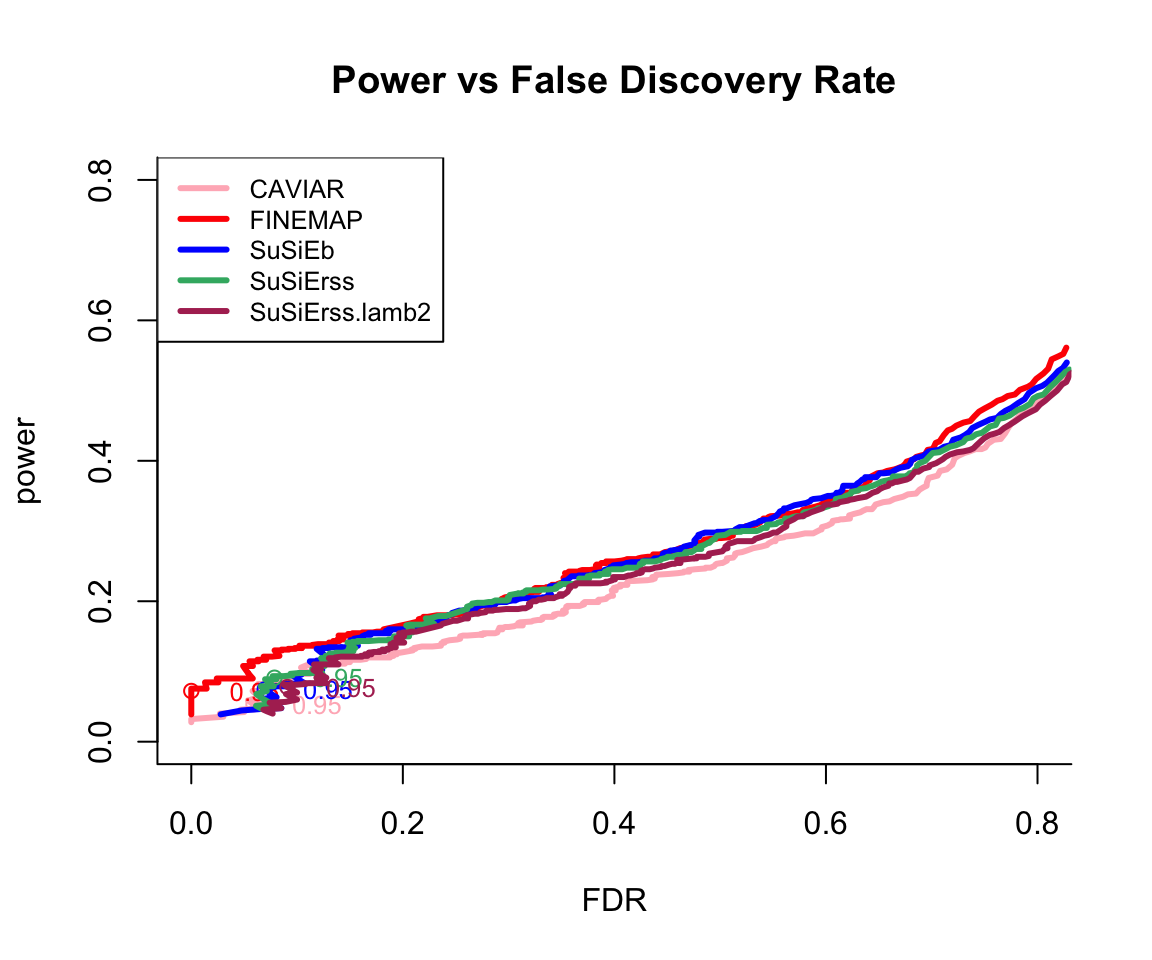
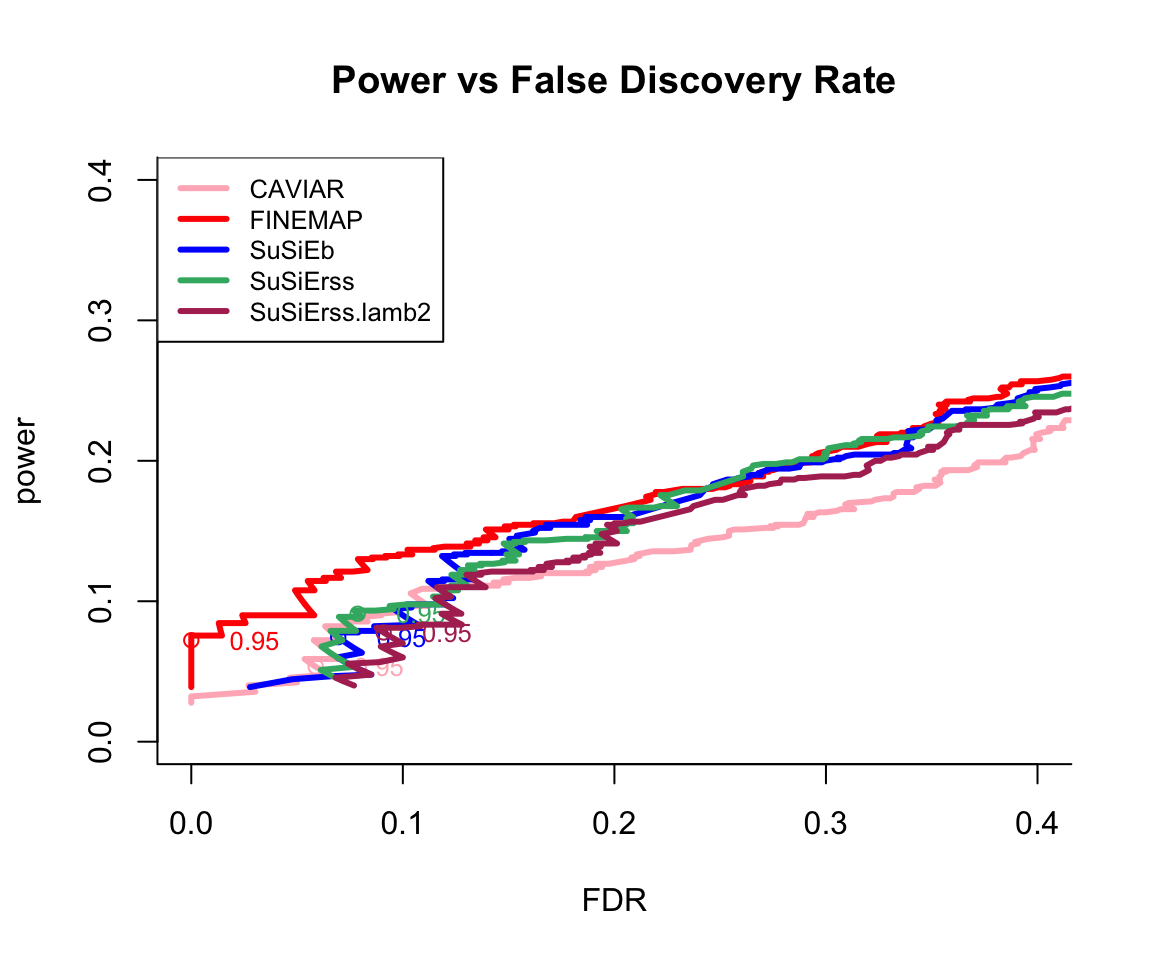
Build site.

diff --git a/docs/r_compare_add_z_lambda_caviar_ROC.html b/docs/r_compare_add_z_lambda_caviar_ROC.html
@@ -456,7 +456,7 @@ div.section {
 <div class="tab-content">
 <div id="summary" class="tab-pane fade in active">
 <p>
-<strong>Last updated:</strong> 2019-05-08
+<strong>Last updated:</strong> 2019-05-09
 </p>
 <p>
 <strong>Checks:</strong> <span class="glyphicon glyphicon-ok text-success" aria-hidden="true"></span> 6 <span class="glyphicon glyphicon-exclamation-sign text-danger" aria-hidden="true"></span> 0
@@ -535,10 +535,10 @@ This reproducible <a href="http://rmarkdown.rstudio.com">R Markdown</a> analysis
 <div class="panel panel-default">
 <div class="panel-heading">
 <p class="panel-title">
-<a data-toggle="collapse" data-parent="#workflowr-checks" href="#strongRepositoryversionstrongahrefhttpsgithubcomzouyuxindscsusieztreecdeda85c299e0dd69cccef34a1c07cee36b11900targetblankcdeda85a"> <span class="glyphicon glyphicon-ok text-success" aria-hidden="true"></span> <strong>Repository version:</strong> <a href="https://github.com/zouyuxin/dsc-susie-z/tree/cdeda85c299e0dd69cccef34a1c07cee36b11900" target="_blank">cdeda85</a> </a>
+<a data-toggle="collapse" data-parent="#workflowr-checks" href="#strongRepositoryversionstrongahrefhttpsgithubcomzouyuxindscsusieztreeb59018cf3daa60404ecb82934d639f627381e999targetblankb59018ca"> <span class="glyphicon glyphicon-ok text-success" aria-hidden="true"></span> <strong>Repository version:</strong> <a href="https://github.com/zouyuxin/dsc-susie-z/tree/b59018cf3daa60404ecb82934d639f627381e999" target="_blank">b59018c</a> </a>
 </p>
 </div>
[2 lines of base64/hex data omitted]
 <div class="panel-body">
 <p>
 Great! You are using Git for version control. Tracking code development and connecting the code version to the results is critical for reproducibility. The version displayed above was the version of the Git repository at the time these results were generated. <br><br> Note that you need to be careful to ensure that all relevant files for the analysis have been committed to Git prior to generating the results (you can use <code>wflow_publish</code> or <code>wflow_git_commit</code>). workflowr only checks the R Markdown file, but you know if there are other scripts or data files that it depends on. Below is the status of the Git repository when the results were generated:
@@ -661,6 +661,40 @@ Message
 </tr>
 </thead>
 <tbody>
+<tr>
+<td>
+Rmd
+</td>
+<td>
+<a href="https://github.com/zouyuxin/dsc-susie-z/blob/b59018cf3daa60404ecb82934d639f627381e999/analysis/r_compare_add_z_lambda_caviar_ROC.Rmd" target="_blank">b59018c</a>
+</td>
+<td>
+zouyuxin
+</td>
+<td>
+2019-05-09
+</td>
+<td>
+wflow_publish(“analysis/r_compare_add_z_lambda_caviar_ROC.Rmd”)
+</td>
+</tr>
+<tr>
+<td>
+html
+</td>
+<td>
+<a href="https://rawcdn.githack.com/zouyuxin/dsc-susie-z/d721e959abee480609c9a5bd3ebb392cf375b336/docs/r_compare_add_z_lambda_caviar_ROC.html" target="_blank">d721e95</a>
+</td>
+<td>
+zouyuxin
+</td>
+<td>
+2019-05-08
+</td>
+<td>
+Build site.
+</td>
+</tr>
 <tr>
 <td>
 Rmd
@@ -854,12 +888,12 @@ i = 1
 for (method in names(roc.notest)) {
   yy = make_smooth(1 - roc.notest[[method]]$rates$Precision, roc.notest[[method]]$rates$Recall)
   if (i == 1) {
-    plot(yy$x, yy$y, t=&quot;l&quot;, col=colors[i], ylab = &quot;power&quot;, xlab =&quot;FDR&quot;, main = &#39;Power vs False Discovery Rate&#39;, bty=&#39;l&#39;, lwd = 3, xlim = c(0,0.8), ylim = c(0,0.8))
+    plot(yy$x, yy$y, t=&quot;l&quot;, col=colors[i], ylab = &quot;power&quot;, xlab =&quot;FDR&quot;, main = &#39;Power vs False Discovery Rate&#39;, bty=&#39;l&#39;, lwd = 3, xlim = c(0,0.4), ylim = c(0,0.4))
   } else {
-    lines(yy$x, yy$y, col=colors[i], lwd = 3, xlim = c(0,0.8), ylim = c(0,0.8))
+    lines(yy$x, yy$y, col=colors[i], lwd = 3, xlim = c(0,0.4), ylim = c(0,0.4))
   }
   #add_text(dat[[method]]$rates$Threshold, yy$x, yy$y, 0.9, colors[i])
-  add_text(roc.notest[[method]]$rates$Threshold, yy$x, yy$y, 0.95, colors[i])
+  add_text(roc.notest[[method]]$rates$Threshold, yy$x, yy$y, 0.95, colors[i], delta=-0.03)
   labels[i] = method
   i = i + 1
 }
@@ -887,6 +921,17 @@ Date
 </tr>
 </thead>
 <tbody>
+<tr>
+<td>
+<a href="https://github.com/zouyuxin/dsc-susie-z/blob/d721e959abee480609c9a5bd3ebb392cf375b336/docs/figure/r_compare_add_z_lambda_caviar_ROC.Rmd/unnamed-chunk-5-1.png" target="_blank">d721e95</a>
+</td>
+<td>
+zouyuxin
+</td>
+<td>
+2019-05-08
+</td>
+</tr>
 <tr>
 <td>
 <a href="https://github.com/zouyuxin/dsc-susie-z/blob/ae19f4907c61032411c805670d5fc922e9edf259/docs/figure/r_compare_add_z_lambda_caviar_ROC.Rmd/unnamed-chunk-5-1.png" target="_blank">ae19f49</a>
@@ -964,6 +1009,17 @@ Date
 <tbody>
 <tr>
 <td>
+<a href="https://github.com/zouyuxin/dsc-susie-z/blob/d721e959abee480609c9a5bd3ebb392cf375b336/docs/figure/r_compare_add_z_lambda_caviar_ROC.Rmd/unnamed-chunk-6-1.png" target="_blank">d721e95</a>
+</td>
+<td>
+zouyuxin
+</td>
+<td>
+2019-05-08
+</td>
+</tr>
+<tr>
+<td>
 <a href="https://github.com/zouyuxin/dsc-susie-z/blob/ae19f4907c61032411c805670d5fc922e9edf259/docs/figure/r_compare_add_z_lambda_caviar_ROC.Rmd/unnamed-chunk-6-1.png" target="_blank">ae19f49</a>
 </td>
 <td>
@@ -1019,6 +1075,17 @@ Date
 </tr>
 </thead>
 <tbody>
+<tr>
+<td>
+<a href="https://github.com/zouyuxin/dsc-susie-z/blob/d721e959abee480609c9a5bd3ebb392cf375b336/docs/figure/r_compare_add_z_lambda_caviar_ROC.Rmd/unnamed-chunk-7-1.png" target="_blank">d721e95</a>
+</td>
+<td>
+zouyuxin
+</td>
+<td>
+2019-05-08
+</td>
+</tr>
 <tr>
 <td>
 <a href="https://github.com/zouyuxin/dsc-susie-z/blob/ae19f4907c61032411c805670d5fc922e9edf259/docs/figure/r_compare_add_z_lambda_caviar_ROC.Rmd/unnamed-chunk-7-1.png" target="_blank">ae19f49</a>
@@ -1087,6 +1154,17 @@ Date
 </tr>
 </thead>
 <tbody>
+<tr>
+<td>
+<a href="https://github.com/zouyuxin/dsc-susie-z/blob/d721e959abee480609c9a5bd3ebb392cf375b336/docs/figure/r_compare_add_z_lambda_caviar_ROC.Rmd/unnamed-chunk-9-1.png" target="_blank">d721e95</a>
+</td>
+<td>
+zouyuxin
+</td>
+<td>
+2019-05-08
+</td>
+</tr>
 <tr>
 <td>
 <a href="https://github.com/zouyuxin/dsc-susie-z/blob/57ecb8e655d3600ad8fe2f8217c84f3fc8052f58/docs/figure/r_compare_add_z_lambda_caviar_ROC.Rmd/unnamed-chunk-9-1.png" target="_blank">57ecb8e</a>
@@ -1193,6 +1271,17 @@ Date
 <tbody>
 <tr>
 <td>
+<a href="https://github.com/zouyuxin/dsc-susie-z/blob/d721e959abee480609c9a5bd3ebb392cf375b336/docs/figure/r_compare_add_z_lambda_caviar_ROC.Rmd/unnamed-chunk-10-1.png" target="_blank">d721e95</a>
+</td>
+<td>
+zouyuxin
+</td>
+<td>
+2019-05-08
+</td>
+</tr>
+<tr>
+<td>
 <a href="https://github.com/zouyuxin/dsc-susie-z/blob/57ecb8e655d3600ad8fe2f8217c84f3fc8052f58/docs/figure/r_compare_add_z_lambda_caviar_ROC.Rmd/unnamed-chunk-10-1.png" target="_blank">57ecb8e</a>
 </td>
 <td>
@@ -1270,6 +1359,17 @@ Date
 <tbody>
 <tr>
 <td>
+<a href="https://github.com/zouyuxin/dsc-susie-z/blob/d721e959abee480609c9a5bd3ebb392cf375b336/docs/figure/r_compare_add_z_lambda_caviar_ROC.Rmd/unnamed-chunk-11-1.png" target="_blank">d721e95</a>
+</td>
+<td>
+zouyuxin
+</td>
+<td>
+2019-05-08
+</td>
+</tr>
+<tr>
+<td>
 <a href="https://github.com/zouyuxin/dsc-susie-z/blob/57ecb8e655d3600ad8fe2f8217c84f3fc8052f58/docs/figure/r_compare_add_z_lambda_caviar_ROC.Rmd/unnamed-chunk-11-1.png" target="_blank">57ecb8e</a>
 </td>
 <td>
@@ -1309,12 +1409,12 @@ i = 1
 for (method in names(roc.est)) {
   yy = make_smooth(1 - roc.est[[method]]$rates$Precision, roc.est[[method]]$rates$Recall)
   if (i == 1) {
-    plot(yy$x, yy$y, t=&quot;l&quot;, col=colors[i], ylab = &quot;power&quot;, xlab =&quot;FDR&quot;, main = &#39;Power vs False Discovery Rate&#39;, bty=&#39;l&#39;, lwd = 3, xlim = c(0,0.8), ylim = c(0,0.8))
+    plot(yy$x, yy$y, t=&quot;l&quot;, col=colors[i], ylab = &quot;power&quot;, xlab =&quot;FDR&quot;, main = &#39;Power vs False Discovery Rate&#39;, bty=&#39;l&#39;, lwd = 3, xlim = c(0,0.4), ylim = c(0,0.4))
   } else {
-    lines(yy$x, yy$y, col=colors[i], lwd = 3, xlim = c(0,0.8), ylim = c(0,0.8))
+    lines(yy$x, yy$y, col=colors[i], lwd = 3, xlim = c(0,0.4), ylim = c(0,0.4))
   }
   #add_text(dat[[method]]$rates$Threshold, yy$x, yy$y, 0.9, colors[i])
-  add_text(roc.est[[method]]$rates$Threshold, yy$x, yy$y, 0.95, colors[i])
+  add_text(roc.est[[method]]$rates$Threshold, yy$x, yy$y, 0.95, colors[i], delta=-0.03)
   labels[i] = method
   i = i + 1
 }
@@ -1342,6 +1442,17 @@ Date
 </tr>
 </thead>
 <tbody>
+<tr>
+<td>
+<a href="https://github.com/zouyuxin/dsc-susie-z/blob/d721e959abee480609c9a5bd3ebb392cf375b336/docs/figure/r_compare_add_z_lambda_caviar_ROC.Rmd/unnamed-chunk-13-1.png" target="_blank">d721e95</a>
+</td>
+<td>
+zouyuxin
+</td>
+<td>
+2019-05-08
+</td>
+</tr>
 <tr>
 <td>
 <a href="https://github.com/zouyuxin/dsc-susie-z/blob/ae19f4907c61032411c805670d5fc922e9edf259/docs/figure/r_compare_add_z_lambda_caviar_ROC.Rmd/unnamed-chunk-13-1.png" target="_blank">ae19f49</a>
@@ -1419,6 +1530,17 @@ Date
 <tbody>
 <tr>
 <td>
+<a href="https://github.com/zouyuxin/dsc-susie-z/blob/d721e959abee480609c9a5bd3ebb392cf375b336/docs/figure/r_compare_add_z_lambda_caviar_ROC.Rmd/unnamed-chunk-14-1.png" target="_blank">d721e95</a>
+</td>
+<td>
+zouyuxin
+</td>
+<td>
+2019-05-08
+</td>
+</tr>
+<tr>
+<td>
 <a href="https://github.com/zouyuxin/dsc-susie-z/blob/ae19f4907c61032411c805670d5fc922e9edf259/docs/figure/r_compare_add_z_lambda_caviar_ROC.Rmd/unnamed-chunk-14-1.png" target="_blank">ae19f49</a>
 </td>
 <td>
@@ -1474,6 +1596,17 @@ Date
 </tr>
 </thead>
 <tbody>
+<tr>
+<td>
+<a href="https://github.com/zouyuxin/dsc-susie-z/blob/d721e959abee480609c9a5bd3ebb392cf375b336/docs/figure/r_compare_add_z_lambda_caviar_ROC.Rmd/unnamed-chunk-15-1.png" target="_blank">d721e95</a>
+</td>
+<td>
+zouyuxin
+</td>
+<td>
+2019-05-08
+</td>
+</tr>
 <tr>
 <td>
 <a href="https://github.com/zouyuxin/dsc-susie-z/blob/ae19f4907c61032411c805670d5fc922e9edf259/docs/figure/r_compare_add_z_lambda_caviar_ROC.Rmd/unnamed-chunk-15-1.png" target="_blank">ae19f49</a>
@@ -1542,6 +1675,17 @@ Date
 </tr>
 </thead>
 <tbody>
+<tr>
+<td>
+<a href="https://github.com/zouyuxin/dsc-susie-z/blob/d721e959abee480609c9a5bd3ebb392cf375b336/docs/figure/r_compare_add_z_lambda_caviar_ROC.Rmd/unnamed-chunk-17-1.png" target="_blank">d721e95</a>
+</td>
+<td>
+zouyuxin
+</td>
+<td>
+2019-05-08
+</td>
+</tr>
 <tr>
 <td>
 <a href="https://github.com/zouyuxin/dsc-susie-z/blob/57ecb8e655d3600ad8fe2f8217c84f3fc8052f58/docs/figure/r_compare_add_z_lambda_caviar_ROC.Rmd/unnamed-chunk-17-1.png" target="_blank">57ecb8e</a>
@@ -1648,6 +1792,17 @@ Date
 <tbody>
 <tr>
 <td>
+<a href="https://github.com/zouyuxin/dsc-susie-z/blob/d721e959abee480609c9a5bd3ebb392cf375b336/docs/figure/r_compare_add_z_lambda_caviar_ROC.Rmd/unnamed-chunk-18-1.png" target="_blank">d721e95</a>
+</td>
+<td>
+zouyuxin
+</td>
+<td>
+2019-05-08
+</td>
+</tr>
+<tr>
+<td>
 <a href="https://github.com/zouyuxin/dsc-susie-z/blob/57ecb8e655d3600ad8fe2f8217c84f3fc8052f58/docs/figure/r_compare_add_z_lambda_caviar_ROC.Rmd/unnamed-chunk-18-1.png" target="_blank">57ecb8e</a>
 </td>
 <td>
@@ -1723,6 +1878,17 @@ Date
 </tr>
 </thead>
 <tbody>
+<tr>
+<td>
+<a href="https://github.com/zouyuxin/dsc-susie-z/blob/d721e959abee480609c9a5bd3ebb392cf375b336/docs/figure/r_compare_add_z_lambda_caviar_ROC.Rmd/unnamed-chunk-19-1.png" target="_blank">d721e95</a>
+</td>
+<td>
+zouyuxin
+</td>
+<td>
+2019-05-08
+</td>
+</tr>
 <tr>
 <td>
 <a href="https://github.com/zouyuxin/dsc-susie-z/blob/57ecb8e655d3600ad8fe2f8217c84f3fc8052f58/docs/figure/r_compare_add_z_lambda_caviar_ROC.Rmd/unnamed-chunk-19-1.png" target="_blank">57ecb8e</a>
